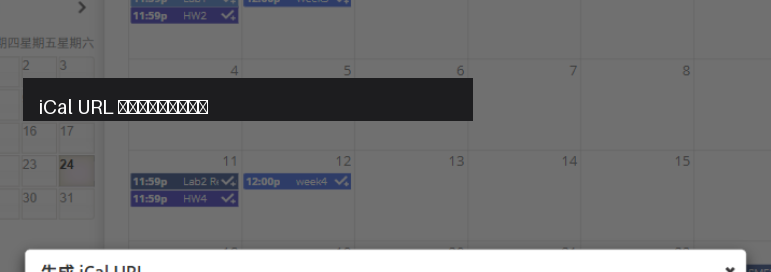
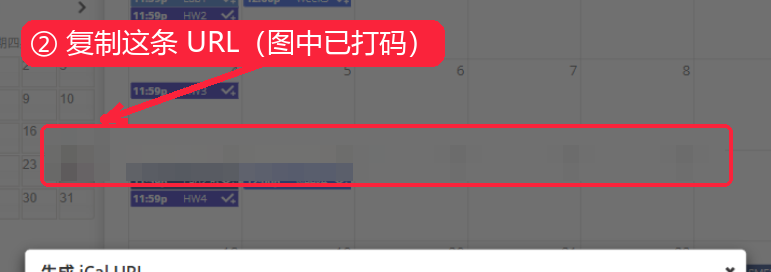
docs: annotated screenshots with click-flow arrows; pixel-precise masking

Changed region(s): [[0.0, 0.0588, 0.965, 0.7059], [0.8716, 0.5882, 0.9027, 0.6176], [0.716, 0.5882, 0.7471, 0.6176]]

diff --git a/setup.html b/setup.html
@@ -148,8 +148,8 @@
   <li><b>BB 日历链接</b>：登录 bb.sustech.edu.cn → 左侧「日历」→ 日历页面左下角 <b>「获取外部日程表链接」</b> → 复制弹窗中的 URL；
       <code>webcal://</code> 开头请改为 <code>https://</code>。
     <details><summary>查看操作截图（隐私内容已打码）</summary>
-      <img class="shot" src="docs/img/bb-calendar-page.png" alt="Blackboard 日历页面（课程列表已打码）">
-      <img class="shot" src="docs/img/bb-calendar-link.png" alt="获取外部日程表链接弹窗（URL 已打码）">
+      <img class="shot" src="docs/img/bb-calendar-page.png?v=2" alt="Blackboard 日历页面（课程列表已打码）">
+      <img class="shot" src="docs/img/bb-calendar-link.png?v=2" alt="获取外部日程表链接弹窗（URL 已打码）">
       <p class="muted">上图：日历页面，入口按钮在左下角（示例图的课程列表已打码）。
       下图：点击按钮后的弹窗——里面的 iCal URL 就是你要复制的 ICS 链接（示例图中已打码，因为它等同于你的私人令牌，<b>不要发给任何人</b>）。</p>
     </details></li>

diff --git a/annotate.py b/annotate.py
@@ -1,0 +1,86 @@
+"""为向导截图添加：精确像素化打码 + 红色箭头/序号标注点击流程。"""
+import json
+from PIL import Image, ImageDraw, ImageFont
+
+IMG = "docs/img/"
+RED = (250, 35, 59)
+WHITE = (255, 255, 255)
+
+
+def font(size):
+    for name in ("msyh.ttc", "msyh.ttf", "simhei.ttf", "simsun.ttc"):
+        try:
+            return ImageFont.truetype("C:/Windows/Fonts/" + name, size)
+        except OSError:
+            continue
+    return ImageFont.load_default(size)
+
+
+def pixelate(im, box, blocks=16):
+    x0, y0, x1, y1 = [int(v) for v in box]
+    x0, y0 = max(0, x0), max(0, y0)
+    region = im.crop((x0, y0, x1, y1))
+    small = region.resize((max(1, (x1 - x0) // blocks), max(1, (y1 - y0) // blocks)))
+    im.paste(small.resize((x1 - x0, y1 - y0), Image.NEAREST), (x0, y0))
+
+
+def arrow(draw, start, end, color=RED, w=7, head=22):
+    draw.line([start, end], fill=color, width=w)
+    import math
+    ang = math.atan2(end[1] - start[1], end[0] - start[0])
+    for s in (1, -1):
+        pt = (end[0] - head * math.cos(ang - s * 0.42),
+              end[1] - head * math.sin(ang - s * 0.42))
+        draw.line([end, pt], fill=color, width=w)
+    draw.ellipse([end[0] - 5, end[1] - 5, end[0] + 5, end[1] + 5], fill=color)
+
+
+def chip(draw, xy, text, f):
+    x, y = xy
+    tb = draw.textbbox((x, y), text, font=f)
+    pad = 9
+    draw.rounded_rectangle([tb[0] - pad, tb[1] - pad // 1, tb[2] + pad, tb[3] + pad // 1],
+                           radius=13, fill=RED)
+    draw.text((x, y), text, font=f, fill=WHITE)
+
+
+# ---------- 图 1：日历页面（点击按钮位置标注） ----------
+im = Image.open(IMG + "page-raw2.png").convert("RGB")
+labels = json.load(open(IMG + "page-labels.json", encoding="utf-8"))
+rects = json.load(open(IMG + "page-rects.json", encoding="utf-8"))
+GENERIC = {"机构", "个人"}
+for lb in labels:  # 打码课程名（跳过通用项与复选框区域）
+    if lb["text"] in GENERIC:
+        continue
+    r = lb["rect"]
+    pixelate(im, (r["x"] + 24, r["y"] - 2, r["x"] + r["w"] + 2, r["y"] + r["h"] + 2))
+for c in rects.get("courseRects", []):  # 其余散落的课程短名（如 Hex）
+    if c["text"] in ("Hex",) or any(k in c["text"] for k in ("班", "（202")):
+        r = c["rect"]
+        pixelate(im, (r["x"] - 2, r["y"] - 2, r["x"] + r["w"] + 2, r["y"] + r["h"] + 2))
+
+d = ImageDraw.Draw(im)
+b = rects["button"] if "x" in rects["button"] else rects["button"]["rect"]
+bx, by, bw, bh = b["x"], b["y"], b["w"], b["h"]
+d.rounded_rectangle([bx - 7, by - 7, bx + bw + 7, by + bh + 7], radius=12,
+                    outline=RED, width=5)
+f28 = font(28)
+chip(d, (415, 700), "① 点击「获取外部日程表链接」", f28)
+arrow(d, (560, 738), (bx + bw - 28, by - 12))
+im.save(IMG + "bb-calendar-page.png")
+
+# ---------- 图 2：弹窗（URL 打码 + 复制指引） ----------
+im2 = Image.open(IMG + "dlg-raw2.png").convert("RGB")
+dlg = json.load(open(IMG + "dlg-rects.json", encoding="utf-8"))
+dd = dlg["dialog"]
+clip_x, clip_y = dd["x"] - 25, dd["y"] - 25
+# URL 带：弹窗内 y 相对 103~157（上一会话 DOM 实测），转图内坐标
+url_box = (252.5 - clip_x, 459.7 - clip_y, 252.5 + 680 - clip_x, 459.7 + 54 - clip_y)
+pixelate(im2, url_box)
+d2 = ImageDraw.Draw(im2)
+d2.rounded_rectangle([url_box[0] - 6, url_box[1] - 4, url_box[2] + 6, url_box[3] + 4],
+                     radius=8, outline=RED, width=4)
+chip(d2, (30, 22), "② 复制这条 URL（图中已打码）", f28)
+arrow(d2, (260, 64), (url_box[0] + 60, url_box[1] - 8))
+im2.save(IMG + "bb-calendar-link.png")
+print("annotated OK")
